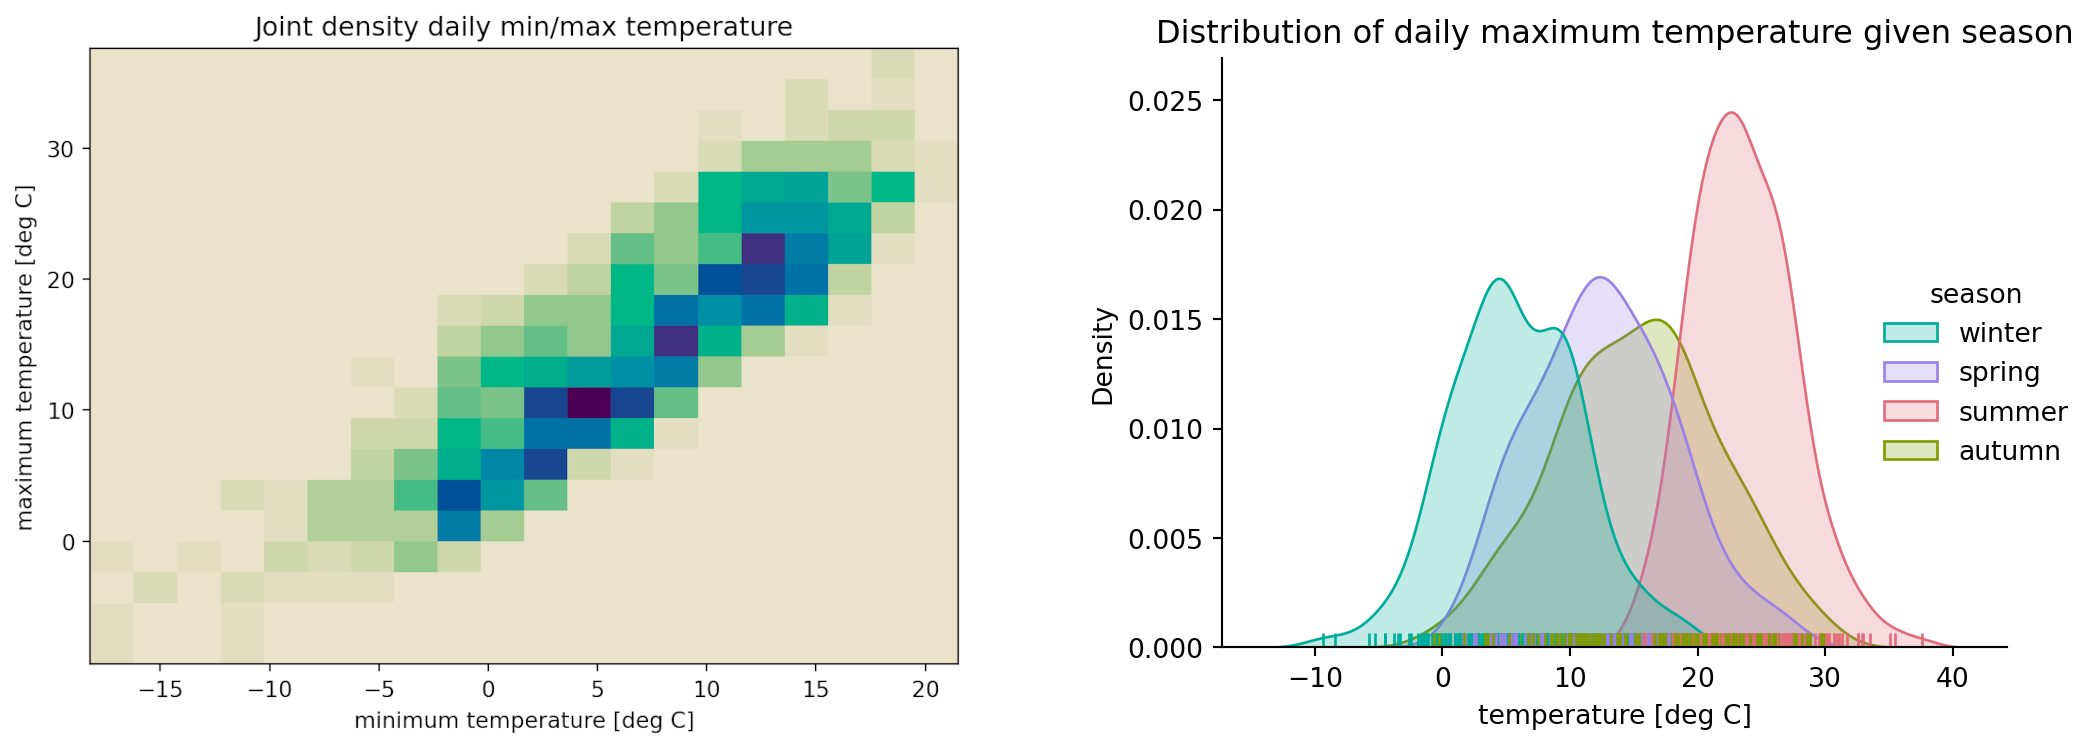
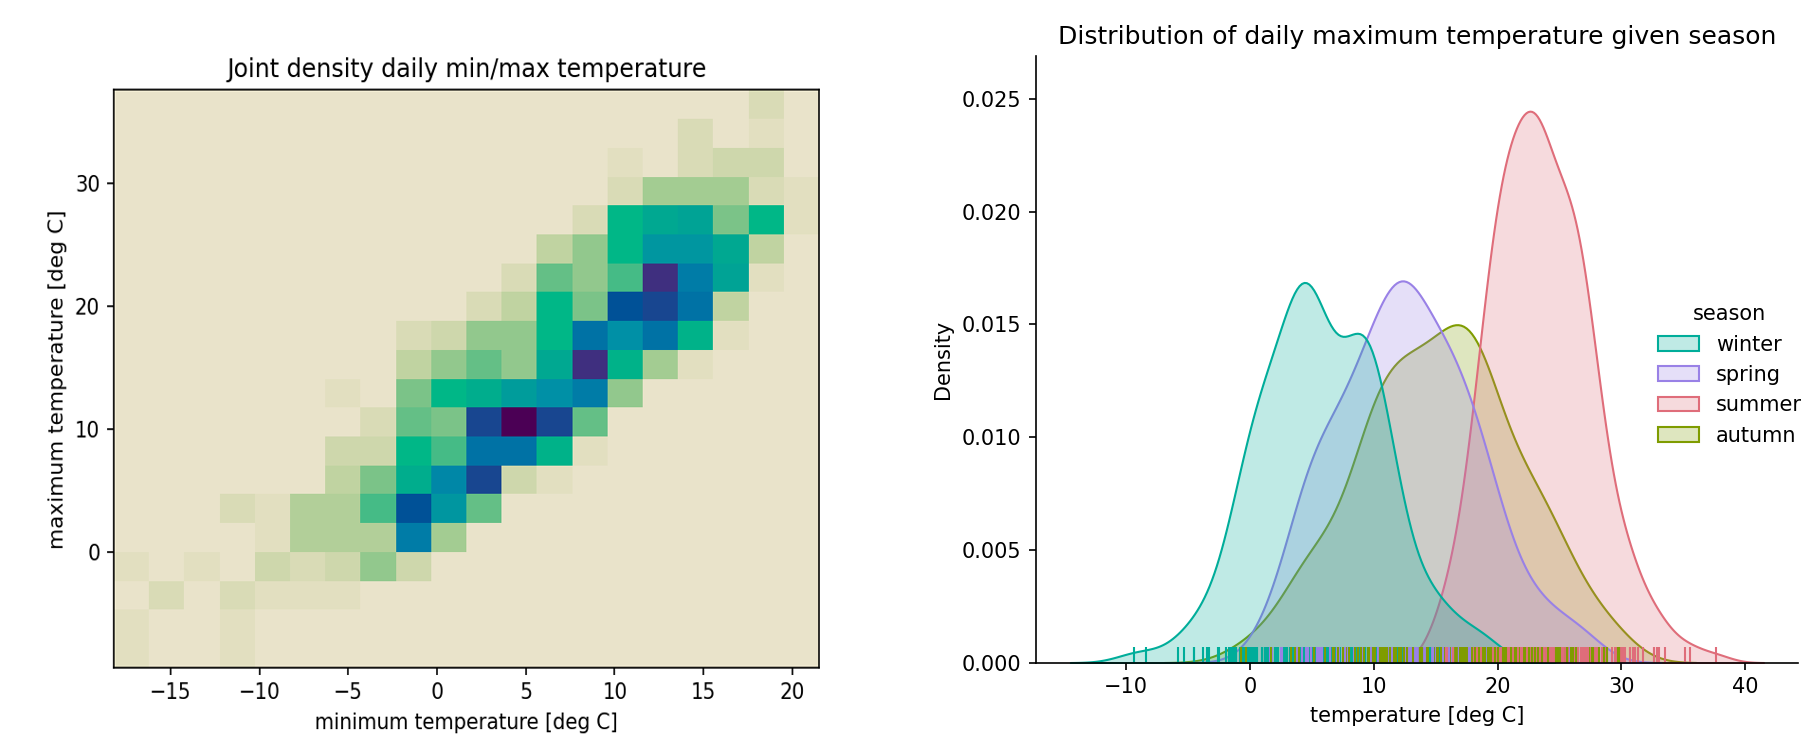
fix: Created python script which auto-creates figures (current version of code from paper draft)

diff --git a/paper_assets/paper_makefigures.py b/paper_assets/paper_makefigures.py
@@ -3,6 +3,33 @@
 # Create static images used for paper
 # ------------------------------------------------------
 
+import matplotlib.pyplot as plt
+
+# helper function to combine 2 or more images horizontally
+def stack_images(files, output):
+    import numpy as np
+    import os
+
+    assert isinstance(files, list)
+    assert np.all(isinstance(files, str) for f in files)
+    assert np.all(os.path.isfile(f) for f in files)
+    assert isinstance(output, str)
+
+    import PIL
+    from PIL import Image
+
+    imgs = [Image.open(f) for f in files]
+    # pick the image which is the smallest hehg, and resize the others to match
+    # it (can be arbitrary image shape here)
+    min_shape = sorted( [(np.sum(i.size), i.size ) for i in imgs])[0][1]
+    print(f"{min_shape=}")
+    imgs_comb = np.hstack([i.resize(min_shape) for i in imgs])
+    
+    # save that beautiful picture
+    imgs_comb = Image.fromarray(imgs_comb)
+    print(f"Saving combined imate to {output}")
+    imgs_comb.save(output)
+
 # ------------------------------------------------------
 # Chosing/defining palettes
 # - Creates "fig-chosing-palettes.png"
@@ -14,29 +41,46 @@ pal2 = sequential_hcl(h = [300, 75], c = [40, 95], l = [15, 90], power = [1., 1.
 pal3 = sequential_hcl(palette = "viridis", cmax = 90,  c2 = 20)
 pal4 = sequential_hcl(palette = "viridis", h1 = 200)
 
-swatchplot([palette(pal1(7), "By name"),
+fig = swatchplot([palette(pal1(7), "By name"),
             palette(pal2(7), "By hand"),
             palette(pal3(7), "With triangular chroma"),
             palette(pal4(7), "With smaller hue range")],
             figsize = (8, 1.75));
+fig.savefig("fig-chosing-palettes.png", transparent = False, dpi = 200)
+plt.close()
+
 
 # ------------------------------------------------------
 # Chosing/defining palettes
 # - Creates "fig-hcl-palettes.png"
 # ------------------------------------------------------
+from colorspace import hcl_palettes
 
-hcl_palettes(plot = True, figsize = (20, 15))
+fig = hcl_palettes(plot = True, figsize = (20, 15))
+fig.savefig("fig-hcl-palettes.png", transparent = False, dpi = 150)
+plt.close()
+
 
 
 # ------------------------------------------------------
 # Chosing/defining palettes
 # - Creates "fig-specplot-hclplot.png"
 # ------------------------------------------------------
+from tempfile import NamedTemporaryFile
+png1 = NamedTemporaryFile(suffix = ".png")
+png2 = NamedTemporaryFile(suffix = ".png")
 
-pal4.specplot(figsize = (5, 5));
+fig1 = pal4.specplot(figsize = (6, 5));
+fig1.savefig(png1.name, dpi = 150)
 
-pal4.hclplot(n = 7, figsize = (5, 5));
+fig2 = pal4.hclplot(n = 7, figsize = (6, 5));
+fig2.savefig(png2.name, dpi = 150)
 
+stack_images([png1.name, png2.name], "fig-specplot-hclplot.png")
+
+png1.close()
+png2.close()
+plt.close()
 
 
 # ------------------------------------------------------
@@ -57,16 +101,24 @@ demoplot(col2, "Map", ax = ax[0,1], title = "HCL-based Blue-Yellow")
 demoplot(deutan(col1), "Map", ax = ax[1,0], ylabel = "deuteranope")
 demoplot(deutan(col2), "Map", ax = ax[1,1])
 
+fig.savefig("fig-cvd.png", dpi = 150)
+plt.close() # Importante
+
 
 # ------------------------------------------------------
 # Chosing/defining palettes
 # - Creates "fig-plotting.png"
 # ------------------------------------------------------
+from tempfile import NamedTemporaryFile
+png1 = NamedTemporaryFile(suffix = ".png")
+png2 = NamedTemporaryFile(suffix = ".png")
 
 from colorspace import dataset
 import matplotlib.pyplot as plt
 
 df = dataset("HarzTraffic") # Loading data; requires pandas
+
+fig = plt.Figure()
 
 # Creating new figure
 fig = plt.hist2d(df.tempmin, df.tempmax, bins = 20,
@@ -75,7 +127,7 @@ fig = plt.hist2d(df.tempmin, df.tempmax, bins = 20,
 plt.title("Joint density daily min/max temperature")
 plt.xlabel("minimum temperature [deg C]")
 plt.ylabel("maximum temperature [deg C]")
-plt.show()
+plt.savefig(png1.name, dpi = 150)
 
 
 from colorspace import qualitative_hcl, dataset
@@ -86,12 +138,16 @@ pal = qualitative_hcl("Dark 3", h1 = -180, h2 = 100) # Color palette
 
 # Creating plot
 g = sns.displot(data = df, x = "tempmax", hue = "season", fill = "season",   
-                kind = "kde", rug = True, height = 4, aspect = 1,
+                kind = "kde", rug = True, height = 5, aspect = 1,
                 palette = pal.colors(4))
 g.set_axis_labels("temperature [deg C]")              
 g.set(title = "Distribution of daily maximum temperature given season")
 plt.tight_layout()
-plt.show()
+plt.savefig(png2.name, dpi = 150)
 
+stack_images([png1.name, png2.name], "fig-plotting.png")
 
+png1.close()
+png2.close()
+plt.close()
 

diff --git a/src/colorspace/palettes.py b/src/colorspace/palettes.py
@@ -218,7 +218,7 @@ class palette:
                 Note that `show_names` will always be set to `False`.
 
         Return:
-        Returns what :py:func:`colorspace.swatchplot.swatchplot` returns.
+            Returns what :py:func:`colorspace.swatchplot.swatchplot` returns.
 
         Example:
 
@@ -245,7 +245,7 @@ class palette:
             **kwargs: Forwarded to :py:func:`colorspace.specplot.specplot`.
 
         Return:
-        Returns what :py:func:`colorspace.specplot.specplot` returns.
+            Returns what :py:func:`colorspace.specplot.specplot` returns.
 
         Example:
 
@@ -272,7 +272,7 @@ class palette:
                 :py:func:`hclplot <colorspace.hclplot.hclplot>`.
 
         Return:
-        Returns what :py:func:`colorspace.hclplot.hclplot` returns.
+            Returns what :py:func:`colorspace.hclplot.hclplot` returns.
 
         Example:
 
@@ -918,6 +918,9 @@ class hclpalette:
             *args: Forwarded to :py:func:`colorspace.specplot.specplot`.
             **kwargs: Forwarded to :py:func:`colorspace.specplot.specplot`.
 
+        Return:
+            Returns what :py:func:`colorspace.specplot.specplot` returns.
+
         Example:
 
             >>> # Default diverging HCL palette
@@ -939,9 +942,7 @@ class hclpalette:
         """
 
         from .specplot import specplot
-        specplot(self.colors(n), *args, **kwargs)
-
-        return
+        return specplot(self.colors(n), *args, **kwargs)
 
     def swatchplot(self, n = 7, **kwargs):
         """Palette Swatch Plot
@@ -952,6 +953,9 @@ class hclpalette:
         Args:
             n (int): Number of colors, defaults to 7.
             **kwargs: forwarded to :py:func:`swatchplot <colorspace.swatchplot.swatchplot>`.
+
+        Return:
+            Returns what :py:func:`colorspace.swatchplot.swatchplot` returns.
 
         Example:
 
@@ -971,7 +975,7 @@ class hclpalette:
         """
 
         from .swatchplot import swatchplot
-        swatchplot(self.colors(n), **kwargs)
+        return swatchplot(self.colors(n), **kwargs)
 
 
     def hclplot(self, n = 7, **kwargs):
@@ -986,6 +990,9 @@ class hclpalette:
             **kwargs: Additional named arguments forwarded to
                 :py:func:`hclplot <colorspace.hclplot.hclplot>`.
 
+        Return:
+            Returns what :py:func:`colorspace.hclplot.hclplot` returns.
+
         Example:
 
             >>> from colorspace import diverging_hcl
@@ -995,7 +1002,7 @@ class hclpalette:
         """
 
         from .hclplot import hclplot
-        hclplot(x = self.colors(n), **kwargs)
+        return hclplot(x = self.colors(n), **kwargs)
 
     def name(self):
         """Get Palette Name

diff --git a/src/colorspace/hcl_palettes.py b/src/colorspace/hcl_palettes.py
@@ -66,8 +66,8 @@ def hcl_palettes(n = 5, type_ = None, name = None, plot = False, custom = None, 
             function if `plot = True`.
 
     Returns:
-        None or hclpalettes: If `plot = True`
-        a plot will be created and `None` is returned. If `plot = False` (default)
+        Object of type `hclpalettes` or a `matplotlib.figure.Figure` object. If `plot = True`
+        a plot will be created and the figure handler returned. If `plot = False` (default)
         an object of class :py:class:`hclpalettes <colorspace.palettes.hclpalettes>` is returned.
 
     Raises:
@@ -204,8 +204,7 @@ def hcl_palettes(n = 5, type_ = None, name = None, plot = False, custom = None, 
         from .swatchplot import swatchplot
         from numpy import ceil
         nrow = int(ceil((pals.length() + len(pals.get_palette_types())) / ncol))
-        swatchplot(pals, nrow = nrow, n = n, **kwargs)
-        return
+        return swatchplot(pals, nrow = nrow, n = n, **kwargs)
 
 
 
